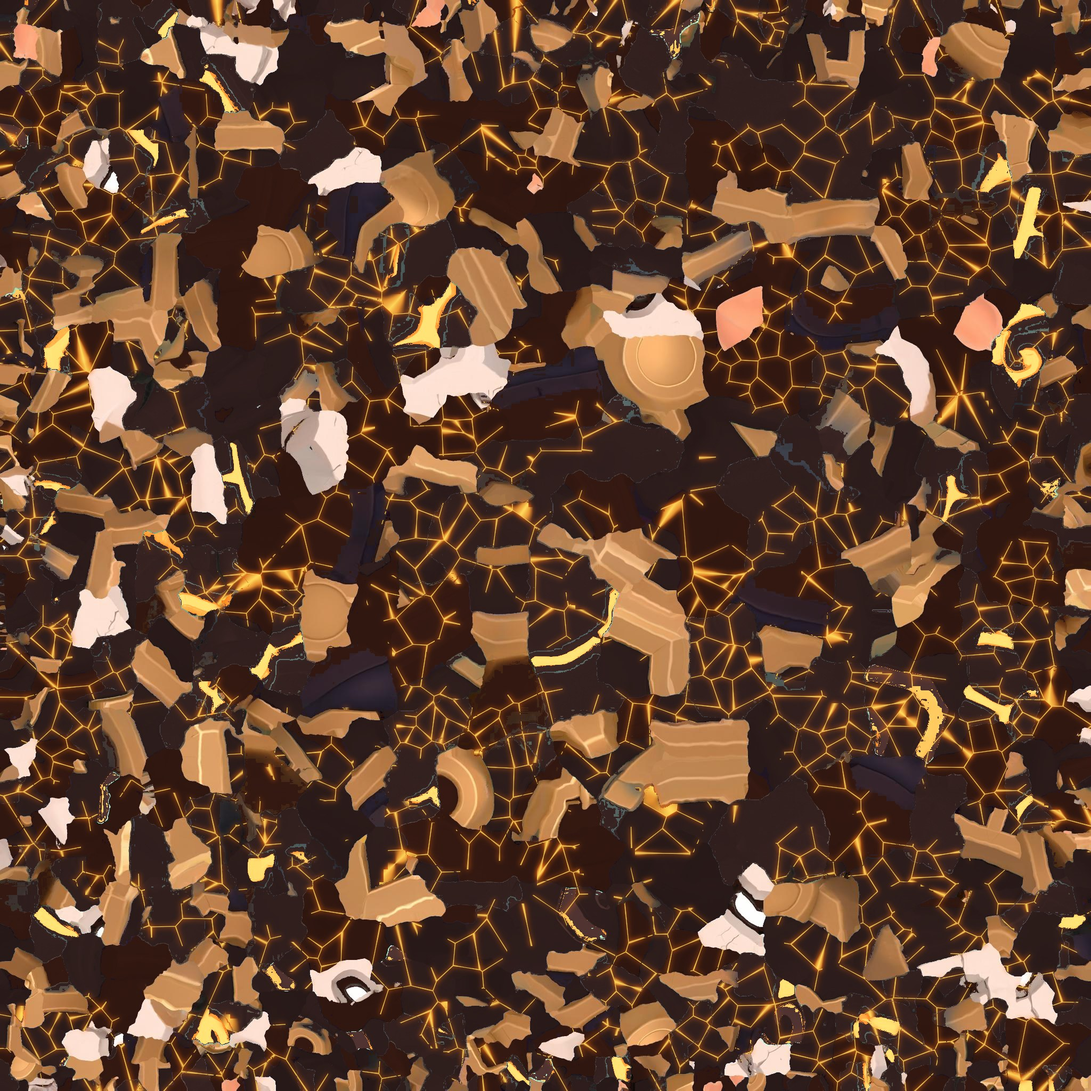
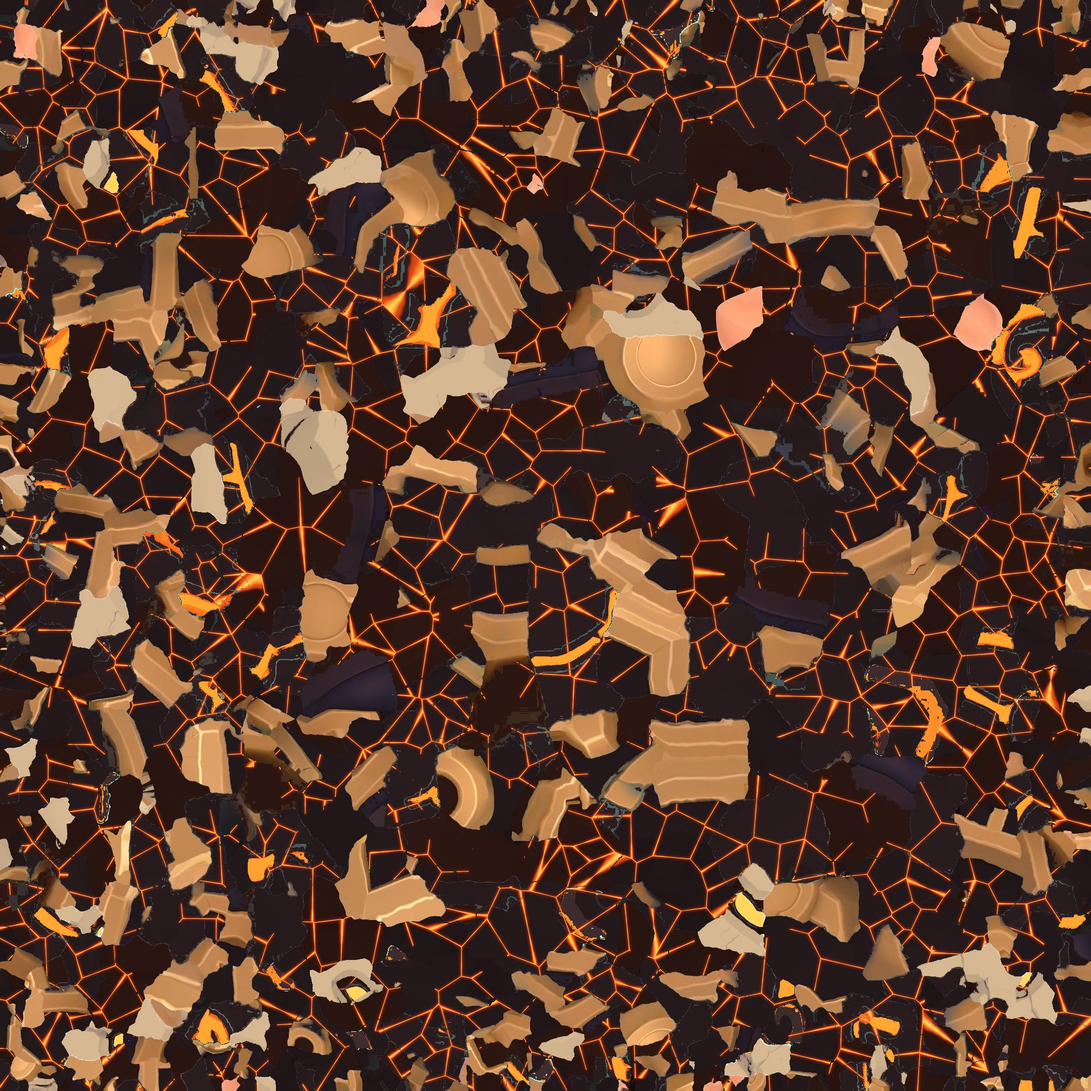
Skin Rogue de lava: grietas rojas más definidas, máscara beige agrietada y ojos encendidos
Claude-Session: https://claude.ai/code/session_01GjLTrmDFieJUZZRvoysjtn

Changed region(s): [[0.0, 0.0, 1.0, 1.0], [0.9062, 0.0, 0.9688, 0.0312], [0.1562, 0.2812, 0.1875, 0.3125]]

diff --git a/tools/skins/rogue_lava.py b/tools/skins/rogue_lava.py
@@ -1,4 +1,6 @@
-# Skin "Rogue de lava": recolorea la textura de rogue_anim.glb (ropa y piedra oscuras, brillos naranjas y grietas de lava)
+# Skin "Rogue de lava": recolorea la textura de rogue_anim.glb.
+# Ropa, pelo y puño de piedra en carbón oscuro con grietas de lava roja-anaranjada (núcleo amarillo, halo rojo),
+# máscara de piedra beige agrietada, ojos encendidos y brillos turquesa pasados a lava. Los adornos dorados se quedan.
 # uso: python3 rogue_lava.py textura_original.png salida.jpg
 import sys, numpy as np
 from PIL import Image
@@ -7,31 +9,37 @@ from scipy.spatial import cKDTree
 src, dst = sys.argv[1], sys.argv[2]
 im = Image.open(src).convert('RGB'); A = np.asarray(im).astype(np.float32); H, W = A.shape[:2]
 hsv = np.asarray(im.convert('HSV')).astype(np.float32); h, s, v = hsv[..., 0], hsv[..., 1], hsv[..., 2]
+lum = A.mean(2, keepdims=True) / 255
 blue = (h > 105) & (h < 185) & (s > 55)                       # ropa y escudo azules / turquesa
 glow = (h > 105) & (h < 145) & (v > 175) & (s > 90)            # brillos turquesa -> lava
-grey = (s < 38) & (v > 45) & (v < 175)                         # puño de piedra gris
+grey = (s < 38) & (v > 45) & (v < 170)                         # puño de piedra gris
 hair = ((h < 14) | (h > 240)) & (v < 105) & (s > 60)            # pelo / cuero granate oscuro
+eyes = (s < 9) & (v > 243)                                     # ojos blancos
+mask = (s >= 9) & (s < 60) & (v > 170) & ((h < 30) | (h > 235)) # máscara de piedra
 dark = (blue | grey | hair) & ~glow
 out = A.copy()
-lum = A.mean(2, keepdims=True) / 255
-base = np.array([62, 40, 38], np.float32)                      # carbón cálido
-out[dark] = (base * (0.55 + 0.9 * lum[dark]))
-out[hair] = (np.array([70, 34, 24], np.float32) * (0.6 + 0.8 * lum[hair]))
-# brillos -> naranja/amarillo
+out[dark] = np.array([46, 32, 34], np.float32) * (0.6 + 0.9 * lum[dark])
+out[hair] = np.array([58, 30, 24], np.float32) * (0.6 + 0.9 * lum[hair])
+out[mask] = np.array([214, 184, 146], np.float32) * (0.55 + 0.5 * lum[mask])
+out[eyes] = np.array([255, 214, 90], np.float32)
 g = np.clip((v[glow] - 150) / 105, 0, 1)[:, None]
-out[glow] = np.array([255, 120, 20]) * (1 - g) + np.array([255, 230, 120]) * g
-# grietas de lava (Voronoi) solo en las zonas oscuras
-rng = np.random.default_rng(3); P = rng.uniform(0, [W, H], (1400, 2))
-yy, xx = np.mgrid[0:H, 0:W]; d, _ = cKDTree(P).query(np.c_[xx.ravel(), yy.ravel()], k=2)
-edge = (d[:, 1] - d[:, 0]).reshape(H, W)
-wob = ndimage.gaussian_filter(rng.standard_normal((H, W)), 6) * 9
-crack = np.clip(1 - (edge + wob * .25) / 2.4, 0, 1)
+out[glow] = np.array([235, 60, 20]) * (1 - g) + np.array([255, 170, 50]) * g
+# grietas (Voronoi), finas y bien definidas
+rng = np.random.default_rng(3)
+def cracks(n, width, seed):
+    r = np.random.default_rng(seed); P = r.uniform(0, [W, H], (n, 2))
+    yy, xx = np.mgrid[0:H, 0:W]; d, _ = cKDTree(P).query(np.c_[xx.ravel(), yy.ravel()], k=2)
+    e = (d[:, 1] - d[:, 0]).reshape(H, W) + ndimage.gaussian_filter(r.standard_normal((H, W)), 5) * 2.2
+    return np.clip(1 - e / width, 0, 1) ** 0.6
 patch = ndimage.gaussian_filter(rng.standard_normal((H // 8, W // 8)), 4); patch = np.kron(patch, np.ones((8, 8)))[:H, :W]
-crack *= (patch > -0.02)                                        # no todo agrietado
-crack *= dark
-halo = ndimage.gaussian_filter(crack, 5) * 1.8
-lava_core = np.array([255, 215, 90], np.float32); lava = np.array([255, 110, 15], np.float32)
-out = out * (1 - np.clip(halo, 0, .8)[..., None]) + lava * np.clip(halo, 0, .8)[..., None]
-out = out * (1 - crack[..., None]) + lava_core * crack[..., None]
-Image.fromarray(np.clip(out, 0, 255).astype(np.uint8)).save(dst, quality=88)
-print('ok', dst, 'oscuro %', round(dark.mean() * 100, 1), 'brillos %', round(glow.mean() * 100, 2))
+lava = cracks(900, 2.2, 3) * (patch > -0.05) * dark
+core = np.clip((lava - .55) / .45, 0, 1)
+halo = np.clip(ndimage.gaussian_filter(lava, 2.5) * 2.2, 0, .85) * dark
+out = out * (1 - halo[..., None]) + np.array([215, 40, 15], np.float32) * halo[..., None]          # halo rojo
+out = out * (1 - lava[..., None]) + np.array([255, 105, 20], np.float32) * lava[..., None]          # lava naranja-roja
+out = out * (1 - core[..., None]) + np.array([255, 215, 90], np.float32) * core[..., None]          # núcleo amarillo
+# grietas de la máscara: líneas oscuras finas
+mc = cracks(500, 1.4, 7) * (patch > .25) * mask
+out = out * (1 - .75 * mc[..., None]) + np.array([70, 50, 40], np.float32) * (.75 * mc[..., None])
+Image.fromarray(np.clip(out, 0, 255).astype(np.uint8)).save(dst, quality=90)
+print('ok', dst, 'oscuro %', round(dark.mean() * 100, 1), 'máscara %', round(mask.mean() * 100, 2), 'ojos %', round(eyes.mean() * 100, 2))

diff --git a/brain/log/2026-11-28-7b46ee4b.md b/brain/log/2026-11-28-7b46ee4b.md
@@ -49,3 +49,8 @@ La prueba ha encontrado la causa exacta, y he desplegado un arreglo. Tu tarjeta 
 
 ## 13:49 USUARIO
 ya esta
+## 13:49 CLAUDE
+Me alegro: ya se ven los personajes en tu PC. El panel de Diagnóstico sigue en Ajustes. Si algún día vuelven a fallar los personajes, lo usamos otra vez; si prefieres que no se vea, lo quito.
+
+## 13:52 USUARIO
+colorea mejor en vez de dorado rojo y lineas mas definidas,la cara coloreala y lo demas mejor
